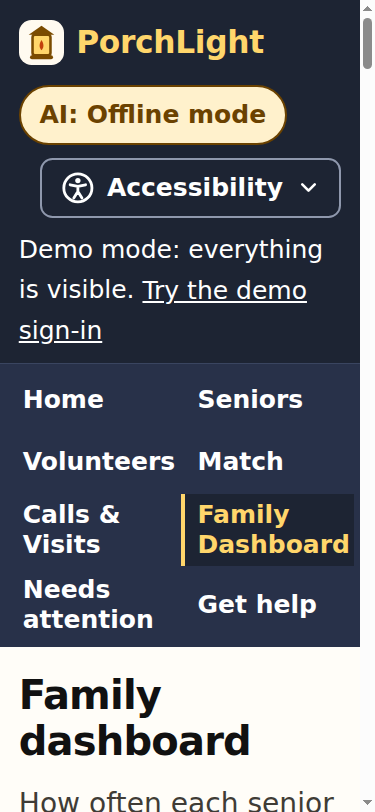
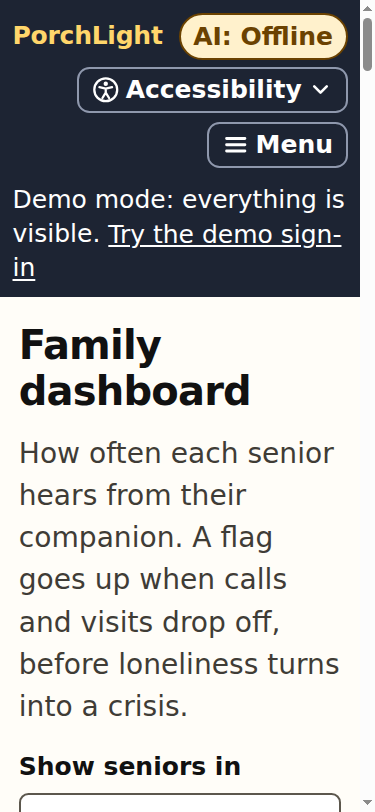
Final docs pass after round 2: honest town coverage, round 2 results
- "Two deployments cover all 92 counties" reworded everywhere: the
  time-zone design covers all 92 counties; the town list has 66 towns
  in 52 counties so far, and adding a town is one line.
- Option B says "show families when calls stop" (322 characters);
  Option A stays the recommendation.
- README: the coordinator sets the alert threshold, the phone Menu
  button, "Find my page", 208 tests (199 + 9 skipped without npm
  install), updated limitations.
- All screenshots retaken after round 2, plus menu-375-xl.png.
- Narrative 801 body words, 2 pages at 11pt; video 8:55.

diff --git a/README.md b/README.md
@@ -85,14 +85,15 @@ are the tour's 8 steps, word for word. Each step on the page has a button that o
 
 Measured on November 4, 2026, on the merged `polish` branch:
 
-- **Automated tests:** 188 tests. After `npm install`, all 188 run and pass with `npm test`,
+- **Automated tests:** 208 tests. After `npm install`, all 208 run and pass with `npm test`,
   `TZ=UTC npm test`, `TZ=America/Chicago npm test`, and `TZ=America/Los_Angeles npm test`. Without
-  `npm install`, 179 pass and the 9 LIVE-mode tests are skipped, because they need the Anthropic
+  `npm install`, 199 pass and the 9 LIVE-mode tests are skipped, because they need the Anthropic
   SDK (checked by running a copy of the code outside the project folder). The count will change as
   tests are added; run `npm test` for the current number.
-- **Accessibility:** Google Lighthouse accessibility score of 100 on 7 key pages in the light, dark,
-  and high-contrast themes at 1280px wide, and in dark mode with A++ text at 375px wide. Before that, we measured 100 on the
-  13 core pages at 1280px and at 375px with A++.
+- **Accessibility:** Google Lighthouse accessibility score of 100 in the light, dark, and
+  high-contrast themes, on desktop and at 375px wide with A++ text, after the phone header was
+  compacted. Before
+  that, we measured 100 on the 13 core pages at 1280px and at 375px with A++.
 - **Two runtimes:** Node (`npm start`) and Cloudflare Workers (`npx wrangler dev`) returned identical
   HTML for the demo pages.
 
@@ -111,14 +112,15 @@ retirees, neighbors) for regular phone calls, video calls, and visits. It works 
    when contact starts to drop off, before isolation turns into a crisis.
 
 It's built for Indiana. Seniors and volunteers each have a town, every list can be filtered by town,
-and one deployment serves every town in its time zone. Coordinators, volunteers, family members, and
+and one deployment serves the listed towns in its time zone (66 towns in 52 counties so far; adding
+one is a single line). Coordinators, volunteers, family members, and
 seniors can each use a demo sign-in to see only their own pages. The demo data is set in Carmel and
 nearby Westfield and Indianapolis. PorchLight is a prototype: no real program uses it, and it has no
 partners or pilots yet.
 
 ## Screenshots
 
-All taken from a fresh demo reset on November 4, 2026.
+All taken from a fresh demo reset on November 4, 2026, after the round 2 fixes. On a 375px phone screen the header is compact and the navigation sits behind the Menu button.
 
 | | |
 |---|---|
@@ -138,6 +140,8 @@ All taken from a fresh demo reset on November 4, 2026.
 | Dark mode | High contrast |
 | ![Family dashboard on a 375px phone screen with A++ text](docs/screenshots/dashboard-375-xl.png) | ![Needs attention on a 375px phone screen with A++ text](docs/screenshots/attention-375-xl.png) |
 | Dashboard, 375px wide, A++ | Needs attention, 375px wide, A++ |
+| ![The phone Menu open at 375px with A++ text: the navigation as a list](docs/screenshots/menu-375-xl.png) | |
+| The phone Menu, 375px wide, A++ | |
 
 ## Commands
 
@@ -214,9 +218,12 @@ npm run deploy         # prints your URL, like https://porchlight.<your-subdomai
    `/dashboard?town=Westfield` shows only Rosa, who lives in Westfield.
 10. **Demo sign-in** (`/sign-in`). Sign in as Mike Whitaker, Hal's son. He sees only Hal's dashboard
     card, Hal's page, Hal's weekly summary, and Get help, never call notes. Other pages show "This
-    page is for coordinators." Sign out to see everything again.
-11. **Alert setting.** Signed out, change the dashboard setting from 7 to 4 days, and Rosa flips to
-    **Isolation risk**. Families choose the threshold that fits their loved one.
+    page is for coordinators." Sign out to see everything again. On the home page, **I'm a senior →
+    Find my page** opens the senior part of the sign-in: Hal's own page greets him, names his
+    companion and his next call, and shows no risk labels.
+11. **Alert setting.** Signed out (as the coordinator would be), change the dashboard setting from 7
+    to 4 days, and Rosa flips to **Isolation risk**. The coordinator sets the threshold to fit the
+    program; the family view shows the flags but not the setting.
 12. **Get help in Indiana** (`/help`). The 911 safety line, a "Which one should I call?" guide,
     CICOA Aging & In-Home Solutions (Hamilton County's Area Agency on Aging), Indiana 211, and the
     state's list of Area Agencies on Aging for every other county. Each one shows its official source
@@ -258,8 +265,8 @@ and takes you to the Match page.
 
 ## Statewide: towns, and two time zones
 
-**Towns.** `src/towns/index.js` lists 66 Indiana cities and towns, each with its county (52 of them
-county seats). Seniors and volunteers each have a town. Every list that matters can be filtered by
+**Towns.** `src/towns/index.js` lists 66 Indiana cities and towns in 52 of the 92 counties, each
+with its county (52 of them are county seats). Seniors and volunteers each have a town. Every list that matters can be filtered by
 town (`?town=` on the dashboard, Needs attention, Seniors, and Volunteers), so one coordinator can
 look at one town at a time. Phone and video calls work statewide. **In-person visits need the same
 county**: that's why Linda, who lives in Indianapolis (Marion County), is left out of Hal's visits
@@ -275,11 +282,15 @@ and Warrick in the southwest (source: the State of Indiana's
 checked November 3, 2026).
 
 **So PorchLight uses one deployment per time zone.** Every date in a deployment goes through one
-clock. The Carmel deployment (Eastern) serves every town in the 80 Eastern-time counties; its town
-picker offers only those towns (49 of the 66). A second deployment with a Central-time profile, such
-as the `evansville` sample in `src/community.js` (Vanderburgh County, with SWIRCA & More as its Area
-Agency on Aging), serves the 12 Central-time counties. **Two deployments cover all 92 counties.** A
-town in the other zone is rejected by the form, never saved with the wrong clock.
+clock. The Carmel deployment (Eastern) is for the 80 Eastern-time counties, and a second deployment
+with a Central-time profile, such as the `evansville` sample in `src/community.js` (Vanderburgh
+County, with SWIRCA & More as its Area Agency on Aging), is for the 12 Central-time counties. **The
+time-zone design covers all 92 counties with two deployments. The town list doesn't yet:** it has 66
+towns in 52 counties (all 12 Central-time counties, and 40 of the 80 Eastern ones), so the Carmel
+deployment's town picker offers 49 towns. Adding a town is one line in `src/towns/index.js` (check
+its county on an official page first). A town in the other time zone is rejected by the form, never
+saved with the wrong clock, and a `?town=` this deployment doesn't serve shows a notice and every
+town.
 
 **Daylight-saving days are handled on purpose.** On March 8, 2026, clocks jump from 1:59 AM to 3:00
 AM, so a call typed in for 2:30 AM is rejected with an error about the time. On November 1, 2026,
@@ -454,8 +465,8 @@ Only **completed** calls and visits count. Scheduled and missed ones don't.
 | ↓ **Contact dropping** (extra flag) | Check-ins in the last 4 weeks fell to half or less of the 4 weeks before |
 
 The trend flag catches the slow fade. Hal is flagged even though his volunteer is still "assigned,"
-because what matters is whether calls are actually happening. Families can change the threshold (1
-to 60 days) on the dashboard.
+because what matters is whether calls are actually happening. A coordinator can change the
+threshold (1 to 60 days) on the dashboard; signed in as a family member, the setting is hidden.
 
 A senior **needs attention** if they're at isolation risk, need a companion, have contact dropping,
 or had a missed call in the last 14 days. One function, `needsAttention()`, decides this for Home,
@@ -474,7 +485,10 @@ Seniors are the primary users, so accessibility was a requirement from the start
   - **Text size:** A, A+, or A++ (20px, 22px, or 25px base text);
   - **Contrast:** standard or high;
   - **Theme:** light, dark, or match my device (the default).
-  Choices are saved on the device.
+  Choices are saved on the device, and the menu closes when keyboard focus leaves it.
+- **A phone-sized header.** On narrow screens the navigation moves behind a **Menu** button (also
+  plain HTML, no JavaScript needed) and the AI badge shortens to "AI: Offline", so the page heading
+  is near the top of the screen even at A++.
 - Text contrast meets **WCAG AAA (7:1)** in the light, dark, and high-contrast themes; a test checks
   the colors (`test/accessibility/contrast.test.js`). Status is always shown with an icon **and**
   words, never color alone. Feedback banners pair an icon, a word, and a color
@@ -499,8 +513,8 @@ TZ=America/Chicago npm test       # same results on a Central-time computer
 TZ=America/Los_Angeles npm test   # same results in any other time zone
 ```
 
-At the time of writing there are 188 tests. Without `npm install`, 179 run and pass, and the 9
-LIVE-mode tests are skipped; after `npm install`, all 188 run. They cover:
+At the time of writing there are 208 tests. Without `npm install`, 199 run and pass, and the 9
+LIVE-mode tests are skipped; after `npm install`, all 208 run. They cover:
 - matching rules and ranking (`test/matching.test.js`);
 - risk thresholds, trend detection, and weekly chart buckets (`test/risk.test.js`);
 - MOCK sparks (always 3, deterministic, varied, gap-aware) and localized sparks: Carmel touches come
@@ -580,8 +594,10 @@ docs/                  Competition write-ups, research, diagrams,
 - **The sign-in is a demo, not security.** Anyone can pick anyone, and there are no passwords. The
   sign-in cookie isn't HttpOnly and lasts 8 hours. Signed out, every page is visible and editable.
   A real launch needs real accounts with passwords and server sessions.
-- **One time zone per deployment.** Covering all of Indiana takes two deployments, one for each time
-  zone. A few towns in the list haven't been checked against an official page yet.
+- **One time zone per deployment, and a partial town list.** Covering all of Indiana takes two
+  deployments, one for each time zone. The town list has 66 towns in 52 of the 92 counties so far,
+  so people in the other 40 counties can't be entered until their town is added (one line each). A
+  few towns in the list haven't been checked against an official page yet.
 - **One shared data document.** Locally it's a JSON file; on Cloudflare it's one Durable Object. Both
   are simple and consistent, but a large program would move to real database tables (Cloudflare D1
   or Postgres).
@@ -589,8 +605,11 @@ docs/                  Competition write-ups, research, diagrams,
   contact seniors.
 - **Notifications are on-screen only.** Families have to open the dashboard or the weekly summary to
   see a flag.
-- **Small leftovers**: "Page not found" pages
-  don't know who is signed in, and HEAD requests for static files (like `/styles.css`) return 404.
+- **Small leftovers**: HEAD requests for static
+  files (like `/styles.css`) return 404. HEAD works for pages.
+- **"Same county" is a rough stand-in for distance.** A senior and a volunteer a few miles apart can
+  be in different counties (Carmel and Indianapolis, for example), so in-person matching is stricter
+  than it needs to be.
 
 ## Future work
 
@@ -600,7 +619,8 @@ docs/                  Competition write-ups, research, diagrams,
 - **A real database** (Cloudflare D1 or Postgres), so a deployment can hold real, not demo, data
 - **Spanish** for both the screens and the conversation sparks
 - **A phone line** for seniors without internet (an automated "press 1 to request a call" line)
-- **Per-senior time zones in one deployment,** so a single PorchLight can serve all 92 counties
+- **Per-senior time zones in one deployment,** so a single PorchLight can serve all 92 counties,
+  with the town list completed for every county
 - **Partnerships with real volunteer organizations** (school service clubs, senior centers, Area
   Agencies on Aging, faith communities) to recruit, screen, and train companions
 

diff --git a/docs/architecture-diagram.md b/docs/architecture-diagram.md
@@ -61,8 +61,10 @@ sign-in, the access rules check the request first and answer "This page is for c
 anything that person shouldn't see; signed out, everything is allowed. Then the request goes to the
 router. Everything that changes from one Indiana community to another (its time zone, local touches
 for sparks, and local help) comes from the community profile, and every date goes through the clock
-module, so times are right even on a server that runs on UTC. One deployment serves every town whose
-county shares its time zone, so two deployments cover Indiana's 92 counties. The Accessibility
+module, so times are right even on a server that runs on UTC. Each deployment runs one time zone, so
+the time-zone design covers all 92 of Indiana's counties with two deployments. The town list isn't
+complete yet: it has 66 towns in 52 counties, and adding a town is one line in `src/towns/index.js`.
+The Accessibility
 choices are cookies that the page layout reads, so every page is drawn in the chosen text size,
 contrast, and theme without JavaScript. The router asks the right engine for an answer (who matches, who is at risk, what to say on the next call), saves changes through the store, and sends back a finished HTML page. The only data that ever leaves the server is the optional, privacy-limited call to Claude.
 
